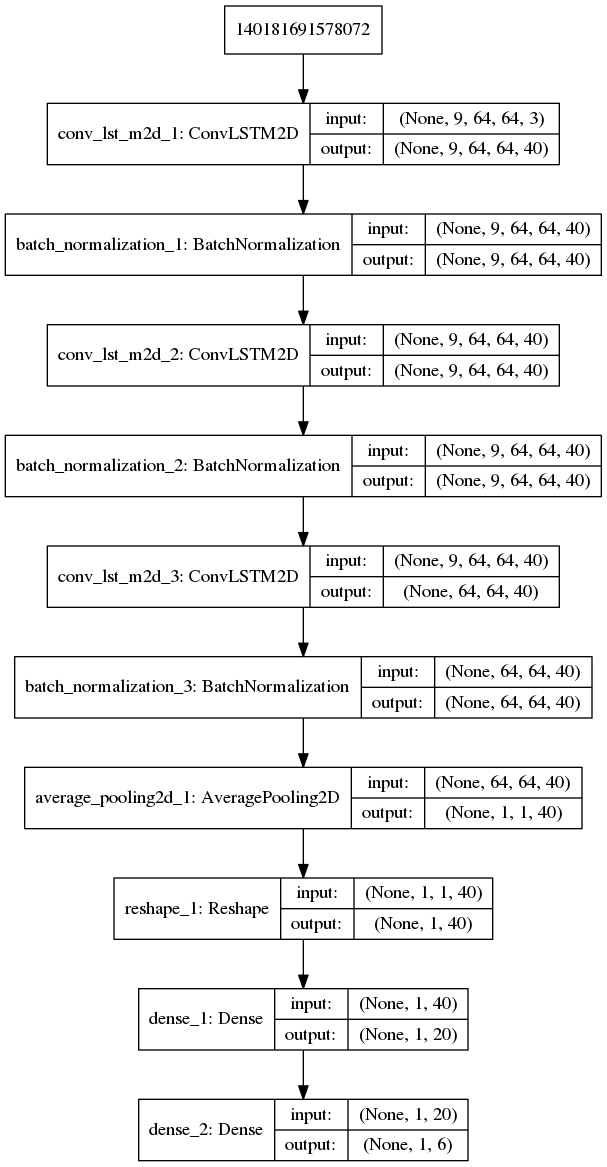
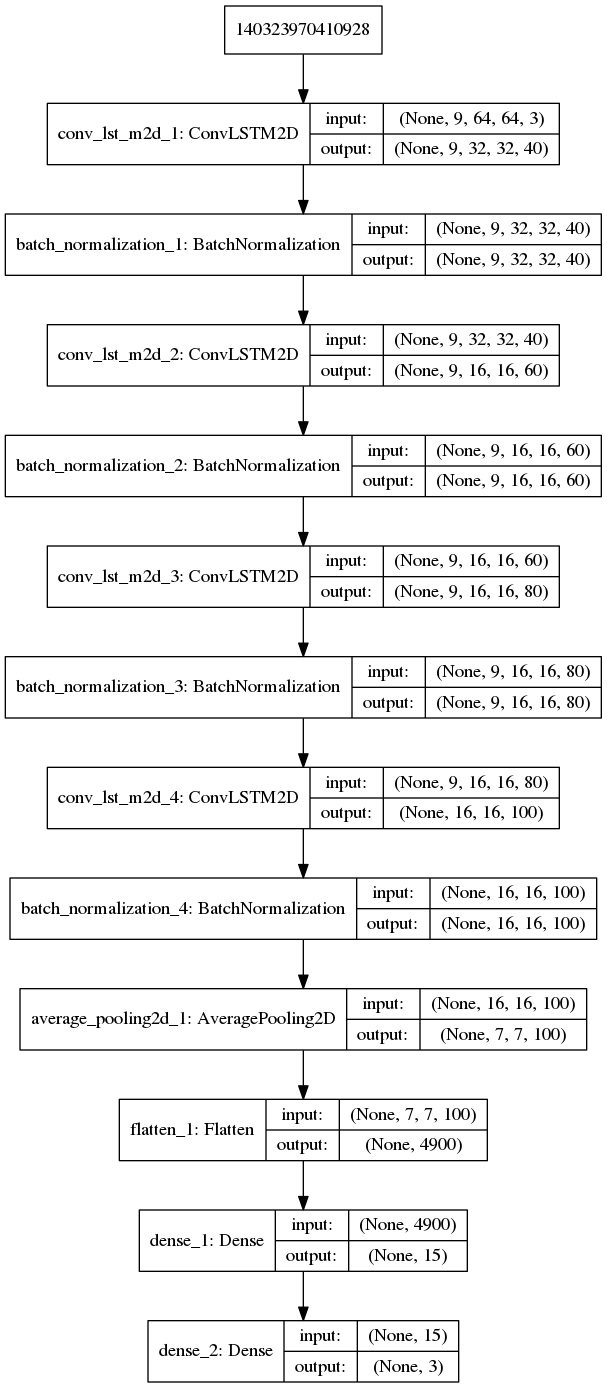
callback added

Changed region(s): [[0.0, 0.0, 1.0, 1.0]]

diff --git a/src/datareader.py b/src/datareader.py
@@ -12,17 +12,28 @@ MIN_NUM_OF_VIDEOS = 4
 class DataReader:
 
     @staticmethod
+    # prepares set of videos of "sequence_len" images
+    # for each identity, at most MAX_NUM_OF_VIDEOS_FOR_IDENTITY videos are loaded
+    # for each identity-camera, at most MAX_NUM_OF_VIDEOS_FOR_CAMERA videos are loaded
+    # for each identity, at least MIN_NUM_OF_VIDEOS videos are loaded. Else, the identity is skipped
+
+    # the method returns train + test data together with labels, dict: label -> identity name based on the folder
+    # and "groups_train" which is a list of denoting the group of a video. Each group contains videos for unique
+    # combination (identity, camera). This list is then used to split data into training a validation test so that
+    # videos of the same (identity, camera) combination are not present in both data sets
     def prepare_data(data_path, sequence_len, test_size=0.2):
         print("[INFO] loading images...")
         data = []
         labels = []
-        groups_train = []
+        groups = []
         label_to_identity = {}
         num_of_identities = -1
         current_camera = ""
-        number_of_identical_shots = 0
+        unique_shots = 0
+        identities = os.listdir(data_path)
+        identities.sort()
 
-        for identity in os.listdir(data_path):
+        for identity in identities:
             identity_data = {}
             video = []
             directory = os.listdir(os.path.join(data_path, identity))
@@ -30,6 +41,7 @@ class DataReader:
             num_of_imgs_in_video = 0
             num_of_videos_for_camera = 0
             num_of_videos_for_identity = 0
+
             for file in directory:
                 if num_of_videos_for_identity < MAX_NUM_OF_VIDEOS_FOR_IDENTITY:
                     try:
@@ -47,8 +59,9 @@ class DataReader:
 
                             if num_of_imgs_in_video == sequence_len:
                                 num_of_videos_for_camera = num_of_videos_for_camera + 1
-                                identity_data[current_camera].append(video)
                                 num_of_videos_for_identity = num_of_videos_for_identity + 1
+
+                                identity_data[current_camera].append(video)
                                 video = []
                                 num_of_imgs_in_video = 0
 
@@ -58,14 +71,14 @@ class DataReader:
                     except:
                         print("image " + os.path.join(data_path, identity, file) + " could not have been loaded")
 
-            num_of_identities = num_of_identities + 1
-            label_to_identity[num_of_identities] = identity
 
             if num_of_videos_for_identity >= MIN_NUM_OF_VIDEOS:
+                num_of_identities = num_of_identities + 1
+                label_to_identity[num_of_identities] = identity
 
                 for i, value in identity_data.items():
-                    groups_train.extend([number_of_identical_shots for _ in range(len(value))])
-                    number_of_identical_shots = number_of_identical_shots + 1
+                    groups.extend([unique_shots for _ in range(len(value))])
+                    unique_shots = unique_shots + 1
                     data.extend(value)
                     labels.extend(np.full((len(value)), num_of_identities))
 
@@ -77,7 +90,7 @@ class DataReader:
         data = np.array(data, dtype="float") / 255.0
         labels = np.array(labels)
 
-        cv = list(GroupShuffleSplit(test_size=test_size, n_splits=1).split(data, labels, groups_train))
+        cv = list(GroupShuffleSplit(test_size=test_size, n_splits=1).split(data, labels, groups))
 
         train_indices = cv[0][0]
         test_indices = cv[0][1]
@@ -87,7 +100,7 @@ class DataReader:
 
         labels_train = labels[train_indices]
         labels_test = labels[test_indices]
-        groups_train = np.array(groups_train)[train_indices]
+        groups_train = np.array(groups)[train_indices]
         return data_train, labels_train, data_test, labels_test, num_of_identities + 1, label_to_identity, groups_train
 
     @staticmethod

diff --git a/src/LSTMModel.py b/src/LSTMModel.py
@@ -31,17 +31,24 @@ class LSTMModel(BaseEstimator, ClassifierMixin):
         print("[INFO] train data size: " + str(self.training_samples))
         print("[INFO] test data size: " + str(self.test_samples))
         print("[INFO] steps per epoch: " + str(self.training_samples / BS))
+        print()
 
         self.tensorboard = TensorBoard(log_dir="logs/{}".format(INIT_LR))
 
-        print("[INFO] training network...")
+        print("[INFO] compiling network...")
+        print()
         opt = SGD(lr=INIT_LR, decay=INIT_LR / (DECAY_FACTOR * num_of_classes))
         self.model.compile(loss="categorical_crossentropy", optimizer=opt, metrics=["categorical_accuracy"])
 
     def fit(self, trainX, trainY, fit_params):
         print("[INFO] fitting..")
+        print(trainY)
         testX = fit_params['testX']
         testY = fit_params['testY']
+
+        print("[INFO] train data size: " + str(len(trainY)))
+        print("[INFO] test data size: " + str(len(testY)))
+
         self.label_to_folder = fit_params['label_to_folder']
         self.model.fit_generator(
             generator=train_generator(trainX, trainY, BS, self.num_of_classes, self.label_to_folder),
@@ -52,7 +59,7 @@ class LSTMModel(BaseEstimator, ClassifierMixin):
                 BS,
                 self.num_of_classes,
                 self.label_to_folder),
-            validation_steps=self.training_samples / (100*BS),
+            validation_steps=self.training_samples / BS,
             epochs=self.EPOCHS,
             verbose=1,
             callbacks=[self.tensorboard]

diff --git a/src/trainLSTM.py b/src/trainLSTM.py
@@ -59,14 +59,17 @@ def train():
         test_samples=len(testX)
     )
 
-    cv = list(GroupShuffleSplit().split(trainX, trainY, groups_train))
+    # split that is used for cross validation in grid search - for each split there's a run of the alg
+    # seems to be useless because this way it splits twice
+    cv = list(GroupShuffleSplit(n_splits=3).split(trainX, trainY, groups_train))
     gs = GridSearchCV(model, tuned_params, cv=cv)
     fit_params = {
         'label_to_folder': label_to_folder,
         'testX': testX,
         'testY': testY
     }
-    gs.fit(trainX, trainY, groups=trainY, fit_params=fit_params)
+
+    gs.fit(trainX, trainY, fit_params=fit_params)
 
     print(sorted(gs.cv_results_.keys()))
     print(gs.best_params_)

diff --git a/src/LSTMNetwork.py b/src/LSTMNetwork.py
@@ -34,6 +34,14 @@ class LSTMNetwork:
             padding='same',
             kernel_initializer='random_uniform',
             bias_initializer='zeros',
+            return_sequences=True))
+        model.add(BatchNormalization())
+        model.add(ConvLSTM2D(
+            filters=100,
+            kernel_size=(3, 3),
+            padding='same',
+            kernel_initializer='random_uniform',
+            bias_initializer='zeros',
             return_sequences=False))
         model.add(BatchNormalization())
         model.add(AveragePooling2D((3, 3), strides=2))
